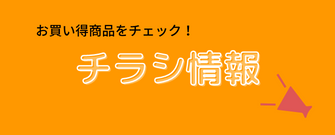
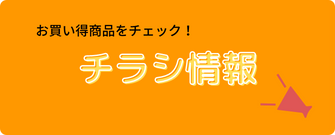
チラシページの表記を修正

diff --git a/src/views/Leaflet.vue b/src/views/Leaflet.vue
@@ -3,7 +3,7 @@
         <v-container>
             <v-breadcrumbs :items="items" class="breadcrumb"></v-breadcrumbs>
             <div class="middle">
-                <h1>今週のチラシ</h1>
+                <h1>{{ leaflet["updated_at"] | moment }}更新のチラシ</h1>
                 <img v-bind:src="leaflet.file_path" alr="チラシ">
             </div>
         </v-container>
@@ -28,6 +28,8 @@
 
 <script>
 import axios from 'axios';
+import moment from 'moment';
+
 export default {
     data() {
         return {
@@ -51,5 +53,10 @@ export default {
             .get('http://xs199209.xsrv.jp/api/upload')
             .then(response => (this.leaflet = response.data))
     },
+    filters: {
+        moment(date) {
+            return moment(date).format('M月D日');
+        },
+    }
 }
 </script>

diff --git a/src/views/Top.vue b/src/views/Top.vue
@@ -41,7 +41,7 @@
                 </v-col>
                 <v-col cols="12" sm="12" md="4" lg="4">
                     <router-link to="/leaflet" target="_blank">
-                        <v-img src="../assets/images/leaflet-bannar.png"></v-img>
+                        <v-img src="../assets/images/leaflet-bannar.png" rounded></v-img>
                     </router-link>
                 </v-col>
             </v-row>
